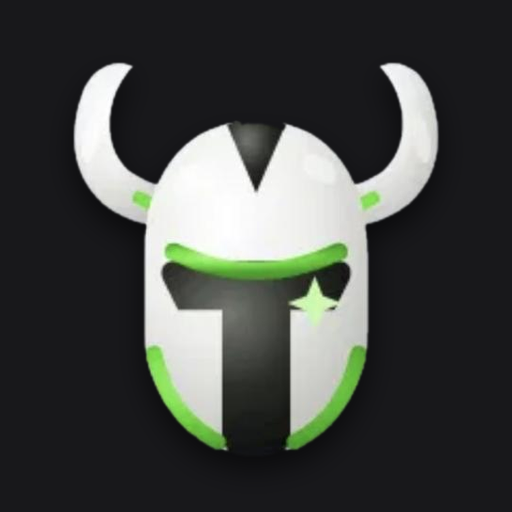
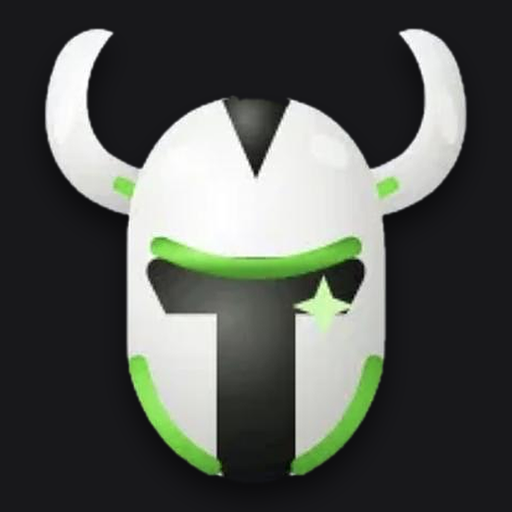
Icône casque plus grande et HD (3.22)
Claude-Session: https://claude.ai/code/session_01LUadX6u81nDzvxT2et2pU7

Changed region(s): [[0.0625, 0.0312, 0.9375, 0.9375]]

diff --git a/sw.js b/sw.js
@@ -1,7 +1,7 @@
 /* Garde l'app disponible hors ligne (les données viennent du cache Firestore).
    Réseau d'abord ; sans réseau, la dernière copie. Les pages (navigation) ne
    reçoivent aucune option de fetch : Android refuse une Request "navigate" modifiée. */
-const C="dago-gerant-v42",F=["./","index.html","app.js","fbx.min.js","config.js","manifest.webmanifest","icon-192.png","icon-512.png","icon-mask-512.png","icone-dago.svg","logo-sombre.svg","Inter.woff2","manrope-400.woff2","manrope-500.woff2","manrope-600.woff2","manrope-700.woff2","manrope-800.woff2","inter-tight-latin-700-normal.woff2","inter-tight-latin-800-normal.woff2"];
+const C="dago-gerant-v43",F=["./","index.html","app.js","fbx.min.js","config.js","manifest.webmanifest","icon-192.png","icon-512.png","icon-mask-512.png","icone-dago.svg","logo-sombre.svg","Inter.woff2","manrope-400.woff2","manrope-500.woff2","manrope-600.woff2","manrope-700.woff2","manrope-800.woff2","inter-tight-latin-700-normal.woff2","inter-tight-latin-800-normal.woff2"];
 self.addEventListener("install",e=>{e.waitUntil(caches.open(C).then(c=>Promise.all(F.map(f=>c.add(new Request(f,{cache:"reload"})).catch(()=>{})))));self.skipWaiting()});
 self.addEventListener("activate",e=>{e.waitUntil(caches.keys().then(k=>Promise.all(k.filter(x=>x!==C).map(x=>caches.delete(x)))).then(()=>self.clients.claim()))});
 self.addEventListener("fetch",e=>{const r=e.request,u=new URL(r.url);if(u.origin!==location.origin||r.method!=="GET")return;

diff --git a/index.html b/index.html
@@ -9,8 +9,8 @@
 <meta name="apple-mobile-web-app-status-bar-style" content="black-translucent">
 <meta name="apple-mobile-web-app-title" content="Dago Gérant">
 <link rel="manifest" href="manifest.webmanifest">
-<link rel="apple-touch-icon" href="icon-192.png?v=2">
-<link rel="icon" href="icon-192.png?v=2">
+<link rel="apple-touch-icon" href="icon-192.png?v=3">
+<link rel="icon" href="icon-192.png?v=3">
 <title>Dago Moto Shop — Gérant</title>
 <link rel="preload" href="Inter.woff2" as="font" type="font/woff2" crossorigin>
 <style>

diff --git a/app.js b/app.js
@@ -5,7 +5,7 @@
    Hors ligne : affiche les dernières données reçues.
    ===================================================================== */
 "use strict";
-const APP_VERSION="3.21 · 26/11";
+const APP_VERSION="3.22 · 26/11";
 const $=(s,r)=>(r||document).querySelector(s),$$=(s,r)=>[...(r||document).querySelectorAll(s)];
 const esc=s=>String(s??"").replace(/[&<>"']/g,c=>({"&":"&amp;","<":"&lt;",">":"&gt;",'"':"&quot;","'":"&#39;"}[c]));
 const fmtN=n=>Math.round(Number(n)||0).toLocaleString("fr-FR").replace(/ | /g," ");
